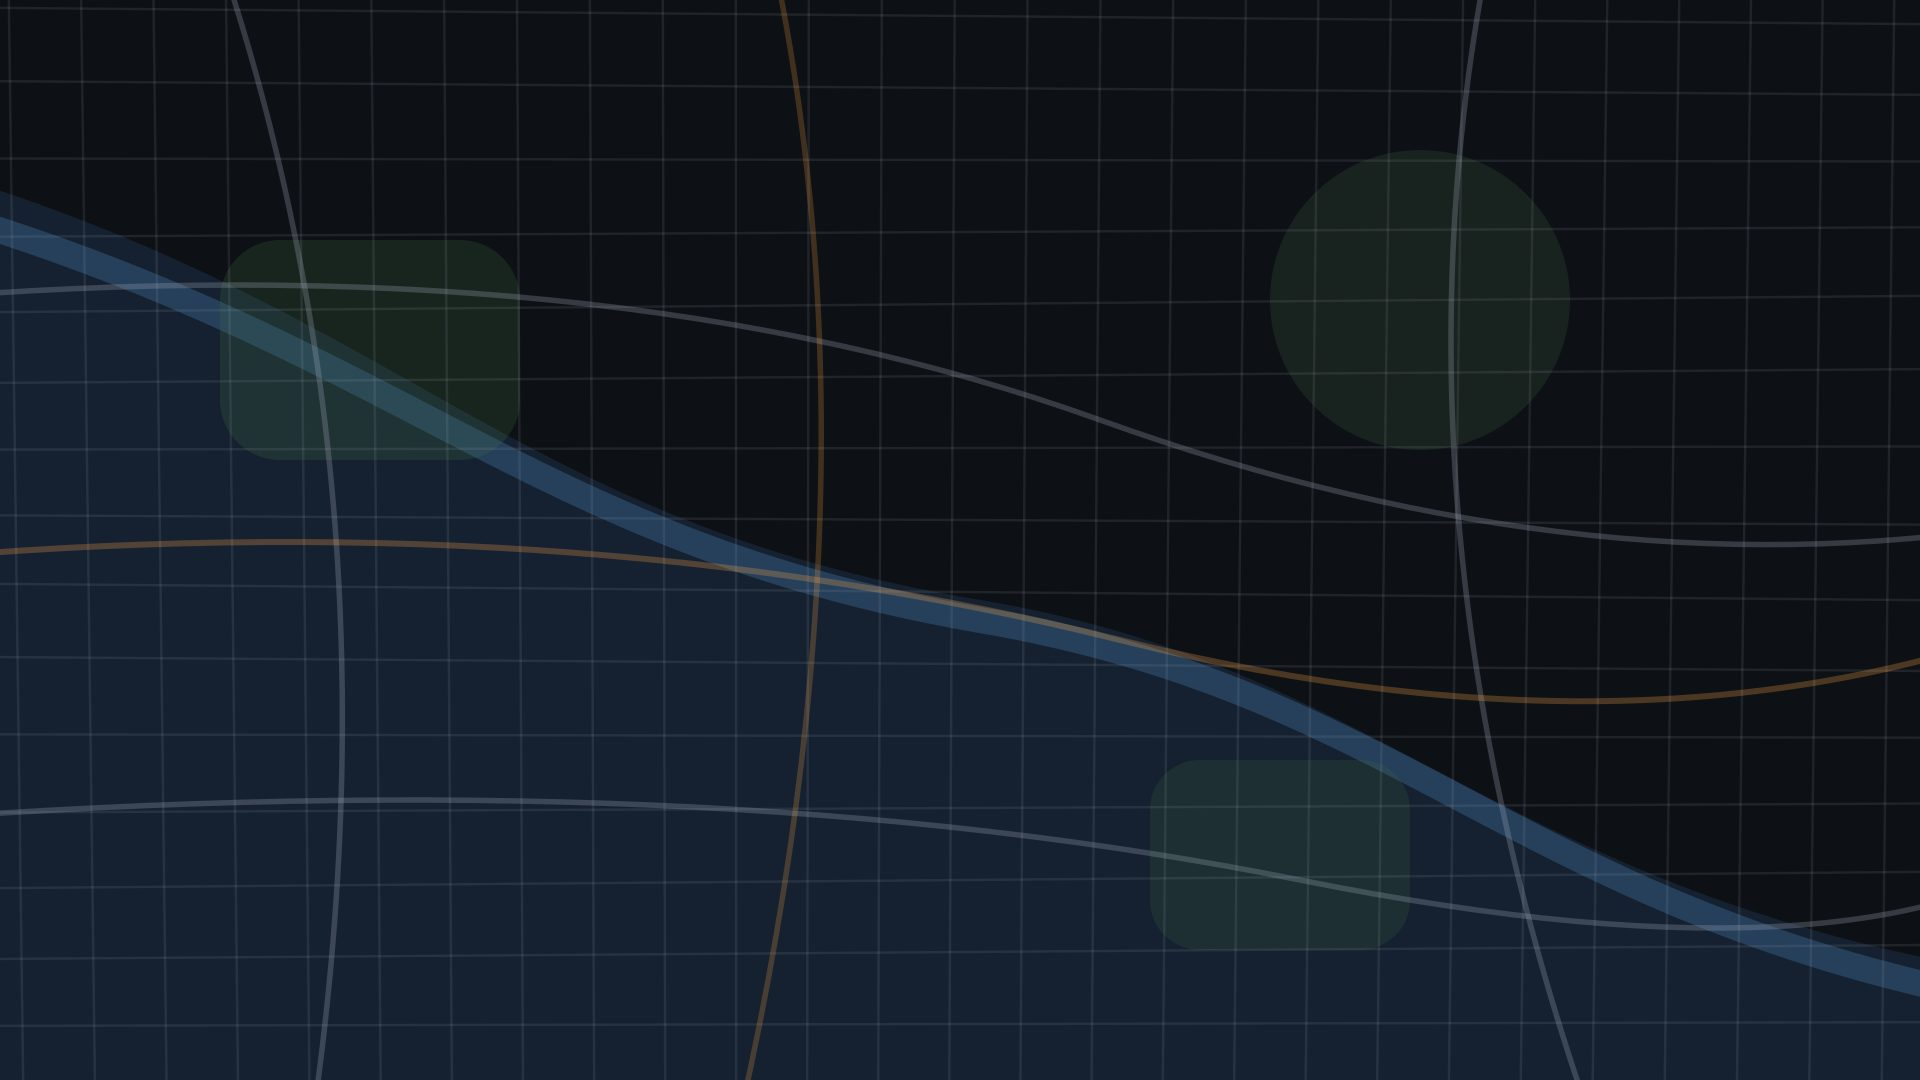
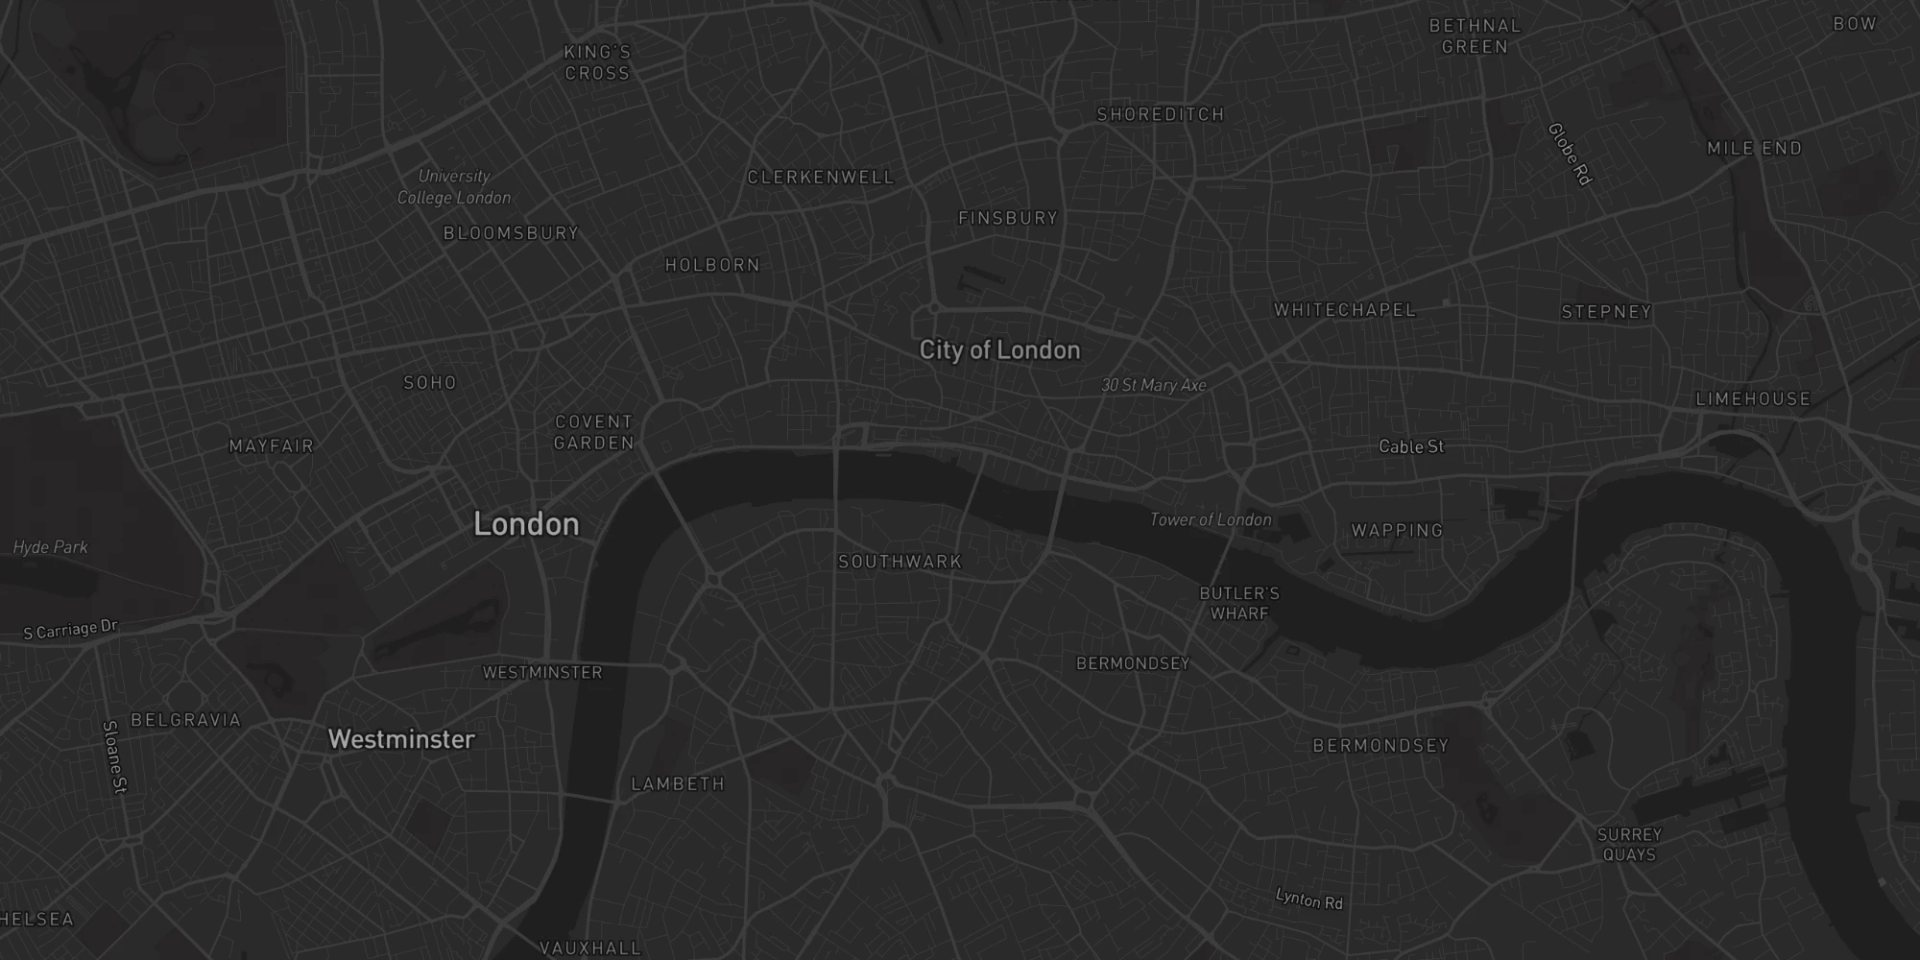
Use real Mapbox London map for the hero backdrop
Replace the procedural placeholder with a real dark Mapbox static map of
central London at public/hero-map.jpg. Add a small "© Mapbox © OpenStreetMap"
attribution in the hero corner, since the static image was generated with the
logo/attribution turned off.

Claude-Session: https://claude.ai/code/session_01C5zbPkguYWmTj5bjh7jAZt

diff --git a/src/app/page.tsx b/src/app/page.tsx
@@ -227,6 +227,23 @@ export default async function HomePage({
         >
           <i className="fas fa-chevron-down" />
         </a>
+        {/* Attribution for the hero map image (Mapbox logo/attribution are off
+            in the static image, so it's shown here instead). */}
+        <span
+          aria-hidden
+          style={{
+            position: "absolute",
+            bottom: 6,
+            right: 10,
+            zIndex: 2,
+            fontSize: "9px",
+            letterSpacing: ".02em",
+            color: "rgba(255,255,255,.3)",
+            pointerEvents: "none",
+          }}
+        >
+          © Mapbox © OpenStreetMap
+        </span>
       </section>
       )}
 

diff --git a/FEATURES.md b/FEATURES.md
@@ -220,6 +220,7 @@
 
 | Date | Commit | Change |
 | --- | --- | --- |
+| 2026-10-24 | `_____` | **Hero map → real London snapshot:** replaced the placeholder with a real dark **Mapbox** map of central London (`/hero-map.jpg`) and added a small "© Mapbox © OpenStreetMap" attribution in the hero corner (logo/attribution were off in the static image) |
 | 2026-10-24 | `109c440` | **Hero backdrop → map snapshot:** removed the stylised UK outline/radar/pins and replaced it with a **semi-transparent map image** (`/hero-map.jpg`) layered over the hero photo (`screen` blend, ~50%), so the photo shows through but a map reads over it. `HeroMapOverlay` now only draws the floating cards. Currently a procedural placeholder map (network policy blocks fetching real map tiles from the build env) — swap `/hero-map.jpg` for a real snapshot. Degrades cleanly if the image is absent |
 | 2026-10-24 | `d7746b8` | **Hero card stagger (more):** moved the two mid-height floating cards further toward centre (5.5% → 9.5% inset) for a more pronounced zigzag; verified still clear of the headline at 1440 / 1536px |
 | 2026-10-24 | `e4514e0` | **Hero card stagger:** pulled the two vertically-centred floating cards inward from the screen edges (5.5% inset) so the left/right columns zigzag instead of sitting flush — still clear of the headline/search at ≥1440px |
